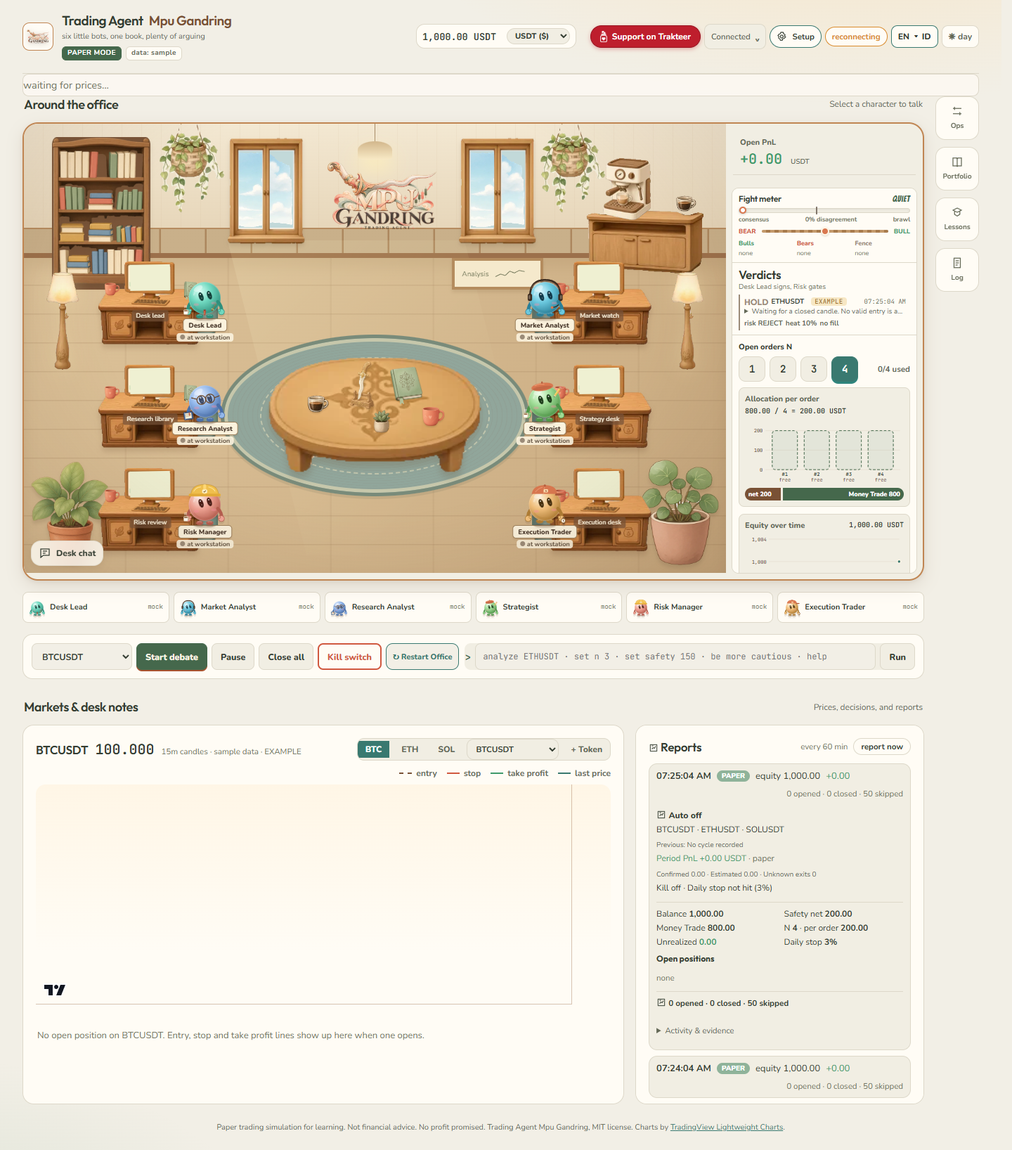
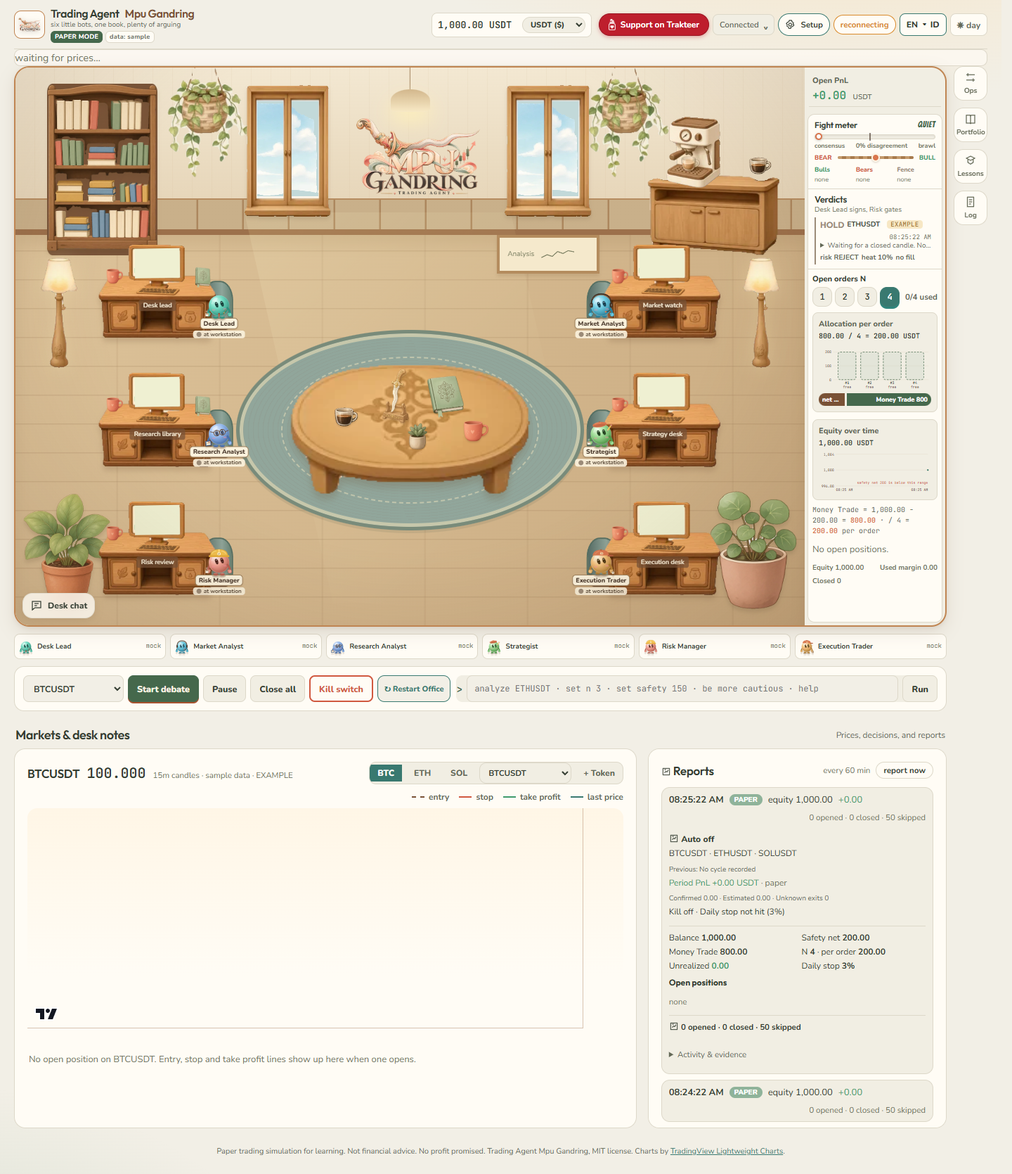
fix: compact office chrome and restore room prominence

diff --git a/web/src/styles/dashboard-v2.css b/web/src/styles/dashboard-v2.css
@@ -1,29 +1,29 @@
 /* The office is the focal point; operational surfaces stay quiet and readable. */
 [data-theme='night'] .dashboard .safety-strip .mt,
 [data-theme='night'] .dashboard .safety-strip .sn { color: var(--bg); }
-.app.dashboard { max-width: 1720px; padding: 18px 32px 16px; }
-.dashboard .topbar { padding: 0 0 18px; gap: 20px; border-bottom: 1px solid var(--line); }
-.dashboard .brand-mark { width: 56px; height: 56px; border-width: 1px; border-radius: 16px; background: var(--panel); box-shadow: none; }
-.dashboard .brand { gap: 12px; }
-.dashboard .brand h1 { font-size: 19px; letter-spacing: -.025em; line-height: 1.2; }
+.app.dashboard { max-width: 1720px; padding: 10px 20px 16px; }
+.dashboard .topbar { padding: 0 0 8px; gap: 10px; border-bottom: 1px solid var(--line); }
+.dashboard .brand-mark { width: 36px; height: 36px; border-width: 1px; border-radius: 16px; background: var(--panel); box-shadow: none; }
+.dashboard .brand { gap: 8px; }
+.dashboard .brand h1 { font-size: 16px; letter-spacing: -.025em; line-height: 1.2; }
 .dashboard .brand h1 span { color: var(--wood-dark); }
-.dashboard .brand p { margin-top: 3px; font-size: 11px; line-height: 1.4; }
-.dashboard .brand-meta { margin-top: 6px; gap: 6px; }
-.dashboard .brand-meta .badge { border-radius: 6px; padding: 3px 7px; font-size: 10px; letter-spacing: .035em; }
-.dashboard .topbar-balance-pill { border-color: var(--line); border-radius: 12px; padding: 12px; box-shadow: none; }
+.dashboard .brand p { margin-top: 1px; font-size: 10px; line-height: 1.1; }
+.dashboard .brand-meta { margin-top: 2px; gap: 4px; }
+.dashboard .brand-meta .badge { border-radius: 6px; padding: 2px 5px; font-size: 9px; letter-spacing: .035em; }
+.dashboard .topbar-balance-pill { border-color: var(--line); border-radius: 8px; padding: 6px 8px; box-shadow: none; }
 .dashboard .badges { gap: 7px; }
-.dashboard .badges > button, .dashboard .wallet-menu > button { min-height: 36px; border-radius: 9px; box-shadow: none; }
-.dashboard .ticker { height: 32px; border-width: 1px; border-radius: 9px; box-shadow: none; background: color-mix(in srgb, var(--panel) 70%, transparent); }
+.dashboard .badges > button, .dashboard .wallet-menu > button { min-height: 30px; border-radius: 8px; box-shadow: none; }
+.dashboard .ticker { height: 24px; border-width: 1px; border-radius: 9px; box-shadow: none; background: color-mix(in srgb, var(--panel) 70%, transparent); }
 .dashboard .ticker-track { animation-duration: 75s; }
-.dashboard .layout { grid-template-columns: minmax(0, 1fr) 62px; gap: 16px; margin-top: 0; scroll-margin-top: 20px; }
-.dashboard .stage { gap: 14px; }
+.dashboard .layout { grid-template-columns: minmax(0, 1fr) 48px; gap: 10px; margin-top: 0; scroll-margin-top: 20px; }
+.dashboard .stage { gap: 8px; }
 .dashboard .workspace-section-title { display: flex; flex-wrap: wrap; justify-content: space-between; align-items: center; gap: 6px 20px; padding: 0 2px; }
 .dashboard .workspace-section-title h2 { margin: 0; font-family: var(--font-head); font-size: 18px; font-weight: 600; letter-spacing: -.025em; }
 .dashboard .workspace-section-title > span { font-size: 12px; color: var(--text-dim); }
 .dashboard .side { top: 20px; }
 .dashboard .workspace-tools { position: sticky; top: 20px; right: auto; }
 .dashboard .tool-bubbles { gap: 10px; }
-.dashboard .tool-bubbles button { width: 62px; min-height: 62px; padding: 10px 4px; border-radius: 14px; box-shadow: none; transition: background var(--fast), border-color var(--fast), transform var(--fast); }
+.dashboard .tool-bubbles button { width: 48px; min-height: 48px; padding: 6px 3px; border-radius: 14px; box-shadow: none; transition: background var(--fast), border-color var(--fast), transform var(--fast); }
 .dashboard .tool-bubbles span { font-size: 10px; font-weight: 700; }
 .dashboard .tool-bubbles button:hover { transform: translateY(-2px); border-color: var(--sage-deep); background: var(--panel-2); }
 .dashboard .tool-bubbles button.is-active { background: var(--sage-deep); border-color: var(--sage-deep); color: var(--cream); }
@@ -56,8 +56,8 @@
 [data-theme='night'] .dashboard .badge.paper { background: var(--sage-deep); color: var(--bg); }
 
 @media (max-width: 1200px) {
-  .app.dashboard { padding: 16px 22px; }
-  .dashboard .topbar { gap: 12px; grid-template-columns: minmax(240px, 1fr) auto; }
+  .app.dashboard { padding: 10px 16px; }
+  .dashboard .topbar { gap: 6px; grid-template-columns: minmax(240px, 1fr) auto; }
   .dashboard .topbar-center { grid-column: 2; grid-row: 1; }
   .dashboard .topbar > .badges { grid-column: 1 / -1; justify-content: flex-start; }
 }
@@ -69,7 +69,7 @@
   .dashboard .topbar { grid-template-columns: minmax(0, 1fr); gap: 12px; padding-bottom: 14px; }
   .dashboard .topbar-center { grid-column: 1; grid-row: auto; }
   .dashboard .topbar-balance-pill { grid-template-columns: minmax(0, 1fr) auto; }
-  .dashboard .brand h1 { font-size: 19px; }
+  .dashboard .brand h1 { font-size: 16px; }
   .dashboard .badges { justify-content: flex-start; }
   .dashboard .badges > button, .dashboard .wallet-menu > button { min-height: 44px; }
   .dashboard .layout { grid-template-columns: minmax(0, 1fr); grid-template-areas: 'stage' 'side'; gap: 0; }

diff --git a/web/src/styles/office-v2.css b/web/src/styles/office-v2.css
@@ -1,6 +1,6 @@
 .office-v2.office .office-world { background: #cfb18a; aspect-ratio: 1000 / 640; max-height: none; min-height: 390px; }
-.office-v2.office { container-type: inline-size; grid-template-columns: minmax(0, 1fr) 280px; grid-template-rows: auto minmax(0, 1fr); }
-.office-v2 .office-hud { align-self: stretch; align-content: start; min-height: 0; max-height: calc(max(390px, (100cqw - 280px) * .64) - 90px); overflow-y: auto; overscroll-behavior: contain; scrollbar-width: thin; scrollbar-color: var(--sage-deep) var(--panel); }
+.office-v2.office { container-type: inline-size; grid-template-columns: minmax(0, 1fr) 200px; grid-template-rows: auto minmax(0, 1fr); }
+.office-v2 .office-hud { align-self: stretch; align-content: start; min-height: 0; max-height: calc(max(390px, (100cqw - 200px) * .64) - 90px); overflow-y: auto; overscroll-behavior: contain; scrollbar-width: thin; scrollbar-color: var(--sage-deep) var(--panel); }
 .office-v2 .office-orders { min-width: 0; padding: 9px; border-top: 1px solid var(--line); }
 .office-orders .n-picker { flex-wrap: wrap; margin: 0 0 8px; gap: 6px; }
 .office-orders .n-picker small { flex: 1 0 100%; color: var(--text); }
@@ -97,9 +97,19 @@
 
 /* Keep the complete room and agent row visible without narrowing the workspace. */
 @media (min-width: 769px) and (min-height: 600px) {
-  .office-v2.office { height: min(calc((100cqw - 280px) * .64 + 4px), var(--office-fit-height, calc(100dvh - 240px))); }
+  .office-v2.office { height: min(calc((100cqw - 200px) * .64 + 4px), var(--office-fit-height, calc(100dvh - 240px))); }
   .office-v2.office .office-world { height: 100%; min-height: 0; aspect-ratio: auto; container-type: size; }
   .office-v2 .office-hud { max-height: none; }
-  .office-v2 .agent .bot { width: clamp(32px, 10cqh, 62px); height: auto; }
-  .dashboard .desk-team .roster-item { flex: 1 1 0; }
+  .office-v2 .agent .bot { width: clamp(28px, 6cqh, 40px); height: auto; }
+  .office-v2 .agent .nametag strong { font-size: 9px; padding: 1px 4px; }
+  .office-v2 .agent .nametag .status { font-size: 8px; }
+  .office-v2 .office-pnl { margin: 6px; padding: 5px; }
+  .office-v2 .office-pnl strong { font-size: 16px; }
+  .office-v2 .office-hud { margin: 4px; }
+  .office-v2 .office-orders { padding: 6px; }
+  .office-v2 .office-orders .n-picker { gap: 4px; font-size: 10px; }
+  .office-v2 .office-orders .n-picker button { width: 28px; height: 28px; min-height: 28px; padding: 2px; font-size: 12px; }
+  .office-v2 .office-hud .verdicts-compact h2 { font-size: 13px; }
+  .dashboard .desk-team .roster-item { flex: 1 1 0; height: 36px; min-height: 36px; padding: 4px 6px; grid-template-columns: 20px minmax(0, 1fr) auto; font-size: 10px; }
+  .dashboard .desk-team .roster-item .bot { width: 20px; height: 24px; }
 }

diff --git a/scripts/verify-office-ui.ts b/scripts/verify-office-ui.ts
@@ -65,6 +65,7 @@ try {
   assert.equal(await page.locator('.side .verdicts').count(), 0);
   assert.equal(await page.locator('.office-hud .verdicts').count(), 1);
   assert.equal(await page.locator('.workspace-heading, .desk-overview').count(), 0);
+  assert.equal(await page.getByRole('heading', { name: 'Around the office', exact: true }).count(), 0);
   assert.equal(await page.locator('.office-hud .office-orders .n-picker').count(), 1);
   assert.equal(await page.locator('.portfolio .n-picker').count(), 0);
   assert.equal(await page.locator('.studio-sign img[src="/mpu-gandring-logo.webp"]').count(), 1);
@@ -125,6 +126,9 @@ try {
     assert(Math.abs(geometry.office.width - geometry.stage.width) < 1, 'Office keeps the full stage width');
     assert(geometry.office.top >= 0 && geometry.roster.bottom <= viewport.height, 'Complete office and agent row fit the viewport');
     assert(await page.locator('.roster').evaluate((roster) => roster.scrollWidth <= roster.clientWidth), 'All six desktop agent buttons fit the row');
+    assert(geometry.office.height >= viewport.height * .6, 'Room must retain most of the viewport height');
+    assert(await page.locator('.office-hud').evaluate((hud) => hud.getBoundingClientRect().width <= 200), 'Map indicators remain compact');
+    assert(await page.locator('.office-world .agent .bot').evaluateAll((bots) => bots.every((bot) => bot.getBoundingClientRect().width <= 40)), 'Scene agents stay small');
     await page.screenshot({ path: path.join(output, `office-fit-${viewport.width}.png`) });
   }
   await page.setViewportSize({ width: 1440, height: 1100 });

diff --git a/tests/i18n.test.ts b/tests/i18n.test.ts
@@ -43,22 +43,22 @@ describe('Dual language i18n parity and updater adapter', () => {
   });
 
   it('compares dotted version strings and checks update status at current release version', async () => {
-    expect(APP_VERSION).toBe('0.0.0.3.10');
+    expect(APP_VERSION).toBe('0.0.0.3.11');
     expect(compareVersions('0.0.0.2.6', '0.0.0.2.6')).toBe(0);
     expect(compareVersions('0.0.0.2.6', '0.0.0.2.5')).toBe(1);
     expect(compareVersions('0.0.0.3.3', '0.0.0.2.6')).toBe(1);
     expect(compareVersions('0.0.0.1.9', '0.0.0.2.6')).toBe(-1);
 
     const fakeNewerFetch = async () =>
-      new Response(JSON.stringify({ appVersion: '0.0.0.3.11', changelog: ['New feature'] }), { status: 200 });
+      new Response(JSON.stringify({ appVersion: '0.0.0.3.12', changelog: ['New feature'] }), { status: 200 });
     const st = await checkUpdate(fakeNewerFetch as unknown as typeof fetch);
     expect(st.ok).toBe(true);
-    expect(st.currentVersion).toBe('0.0.0.3.10');
-    expect(st.latestVersion).toBe('0.0.0.3.11');
+    expect(st.currentVersion).toBe('0.0.0.3.11');
+    expect(st.latestVersion).toBe('0.0.0.3.12');
     expect(st.updateAvailable).toBe(true);
 
     const applied = applyUpdate(process.cwd(), () => ({ status: 0, stdout: 'Already up to date.\\n', stderr: '' }));
     expect(applied.ok).toBe(true);
-    expect(applied.currentVersion).toBe('0.0.0.3.10');
+    expect(applied.currentVersion).toBe('0.0.0.3.11');
   });
 });

diff --git a/web/src/App.tsx b/web/src/App.tsx
@@ -133,7 +133,6 @@ function AppInner() {
       <TickerStrip state={state} />
       <main className="layout" id="office-workspace" tabIndex={-1}>
         <section className="stage">
-          <div className="workspace-section-title"><h2>{id ? 'Di kantor' : 'Around the office'}</h2><span>{id ? 'Pilih karakter untuk berbicara' : 'Select a character to talk'}</span></div>
           <Office sceneEvents={sceneEvents} state={state} speech={speech} fights={fights} reactions={reactions} disagreement={dis} selected={selected} spark={spark} onSelect={setSelected}>
             <FightMeter state={state} meter={meter} fighting={fights.length > 0} />
             <Verdicts state={state} compact />

diff --git a/server/updater.ts b/server/updater.ts
@@ -2,7 +2,7 @@ import { spawnSync } from 'node:child_process';
 import { readFileSync } from 'node:fs';
 import path from 'node:path';
 
-export const APP_VERSION = '0.0.0.3.10';
+export const APP_VERSION = '0.0.0.3.11';
 export const REPO_RAW_PKG_URL = 'https://raw.githubusercontent.com/aabrur/trading-agent-mpu-gandring/main/package.json';
 export const REPO_URL = 'https://github.com/aabrur/trading-agent-mpu-gandring';
 

diff --git a/README.md b/README.md
@@ -14,13 +14,13 @@ You watch all of it live in a little virtual office in your browser, and you can
 
 Screenshots use isolated PAPER/mock fixtures and simulated data. They demonstrate the interface, not exchange execution or trading results.
 
-## Illustrated office (v0.0.0.3.10)
+## Illustrated office (v0.0.0.3.11)
 
 The office uses supplied wood furniture, a shared carved discussion table, a stocked library, sky windows, hanging plants, lamps and a coffee corner. Six animated characters retain their own workstation, role accessories, activity, debate and chat controls. Day and night themes extend across the room, map panels, agent roster, markets and reports.
 
 The office opens directly below the ticker, without a workspace hero or account-summary section. The six-agent roster stays in one compact, equal-height row, with horizontal scrolling on narrow screens. Open-order controls, allocation, equity history and positions sit in the map rail alongside Open PnL, the fight meter and verdicts. The rail scrolls independently on desktop. Portfolio retains balance, safety-net and venue-account settings.
 
-On desktop viewports at least 600px tall, the complete office and all six agent buttons fit within the viewport while preserving workspace width. The HUD scrolls within the office. The discussion table is centered on the usable floor, with six workstations aligned in two balanced columns. Four bookshelf levels use the supplied assembled book groups, and tabletop cups, book, plant and keris each have separate space. The wall displays only the project logo. An espresso machine sits on the coffee counter, and the discussion table carries coffee, a book, a plant and the supplied ornate keris (`026_curved-blade_ornate-dagger`) mounted upright in its matching wooden display stand. Tool panels freeze background-page scrolling while the pointer is inside, and release it on pointer exit or close. Map PnL shows the label and USDT value without mode/source text; provenance remains accessible in its description. Existing trading commands and guards keep their behavior.
+On desktop viewports at least 600px tall, the complete office and all six agent buttons fit within the viewport while preserving workspace width. The compact 200px HUD scrolls within the office. The header, scene characters and agent row stay small so the room retains most of the screen; the office heading has been removed. The discussion table is centered on the usable floor, with six workstations aligned in two balanced columns. Four bookshelf levels use the supplied assembled book groups, and tabletop cups, book, plant and keris each have separate space. The wall displays only the project logo. An espresso machine sits on the coffee counter, and the discussion table carries coffee, a book, a plant and the supplied ornate keris (`026_curved-blade_ornate-dagger`) mounted upright in its matching wooden display stand. Tool panels freeze background-page scrolling while the pointer is inside, and release it on pointer exit or close. Map PnL shows the label and USDT value without mode/source text; provenance remains accessible in its description. Existing trading commands and guards keep their behavior.
 
 Runtime artwork lives in `web/public/office-assets/`: 28 optimized WebP images, about 355 KiB total, with original filenames and archive provenance in `manifest.json`. The supplied `web/public/mpu-gandring-assets/` authoring library stays local and is ignored by Git. Production builds copy only runtime artwork and the two branding images, so clones do not need the original library. Replaced inline room artwork and furniture CSS have been removed.
 
@@ -80,14 +80,14 @@ No model API keys needed: six Grok Bot agents are the employees and the brains, 
 - **A cozy office with brutal cartoon smoke-cloud fights and spectator reactions.** Wood floors, a woven rug, sky windows, a coffee corner and six round little bots with mitten hands. Each role has its own color and prop: tie, keris pin and journal papers for the Lead, headset for Market, glasses and newspaper for Research, beret and pencil for the Strategist, hard hat for Risk and cap and stopwatch for Execution. When disagreement crosses the threshold, agents dive into a cartoon dust/smoke cloud with flying fists, spinning stars, lightning bolts and impact bursts (`GEBUK!`, `POW!`, `WHAM!`, `BONK!`), while bystander bots react with worried expressions and speech without blocking execution.
 - **Interactive pop-up tutorial on every start.** A 9-step guided onboarding tour launches automatically on startup (and via **Setup > Tutorial** in the top bar), highlighting each section of the desk with a spotlight and directional arrow.
 - **Dual language mode: EN and ID.** Defaults to English (`EN`) and switches instantly to Bahasa Indonesia (`ID`) from the top bar (`EN ▾ ID`), backed by a strictly synchronized 1:1 translation dictionary verified by automated tests.
-- **In-app Version & Lit-Up Update Notification (`v0.0.0.3.10`).** The lit-up version notification badge (`v0.0.0.3.10 · Update ↑`) in the top bar checks GitHub for new releases via `GET /api/update/status` and lets you pull and build the latest version in one click via `POST /api/update/apply`.
+- **In-app Version & Lit-Up Update Notification (`v0.0.0.3.11`).** The lit-up version notification badge (`v0.0.0.3.11 · Update ↑`) in the top bar checks GitHub for new releases via `GET /api/update/status` and lets you pull and build the latest version in one click via `POST /api/update/apply`.
 - **Charts you can read.** A candlestick chart for the selected symbol with a price scale, time labels, the last price and dashed entry, stop and take profit lines for open paper positions. The paper book has an equity curve and allocation bars for Money Trade / N, and every desk monitor shows a sparkline.
 - **Day and night.** A toggle in the top bar. All colors and fonts live in `web/src/styles/tokens.css`.
 - **Live office feed.** Status, speech bubbles and fights stream over WebSocket, next to the fight meter, ticker strip, verdict cards and a desk log.
 - **Talk to the agents.** Click an agent to chat or give commands like `analyze ETHUSDT`, `be more cautious` or `close all`.
 - **Optional Grok Bot bridge.** Send verdicts and commands to a Grok Bot webhook routine from the server. Off by default.
 
-## Compact office controls (v0.0.0.3.10)
+## Compact office controls (v0.0.0.3.11)
 
 - Open **Ops**, **Portfolio**, **Lessons**, or **Log** from the bubble menu at the right. Panels stay closed until selected. Close with the same bubble, the close button, Escape, or a click outside. On phones the menu sits at the bottom-right.
 - **Reports** sits beside the price chart on desktop and below it on narrow screens. Open activity and evidence only when needed.
@@ -139,7 +139,7 @@ Refused everywhere: main wallet private keys, seed phrases, keys that can withdr
 | Interactive onboarding tour | N/A | Launches on every start, or open **Setup > Tutorial** in the top bar |
 | Optional Jev decision sidecar | Setup > Models, `JEV_ENABLED=true` | Shadow does not block. LIVE ASSIST needs Setup authorization. Never places orders |
 | Switch UI language (`EN` default / `ID`) | N/A | **EN ▾ ID** toggle in top bar |
-| Check version (`v0.0.0.3.10`) & one-click update | `git pull --ff-only && npm run build` | Lit-up **v0.0.0.3.10 · Update ↑** button in top bar |
+| Check version (`v0.0.0.3.11`) & one-click update | `git pull --ff-only && npm run build` | Lit-up **v0.0.0.3.11 · Update ↑** button in top bar |
 | Doctor / permission check | `npm run doctor`, `npm run setup -- check-key --network testnet` | Setup > Exchange & Safety **Run doctor** |
 | Switch mode to TESTNET or LIVE | `npm run setup -- --yes --trading-mode testnet` / `... live --confirm-live "I understand LIVE trades real money"` | Setup > Exchange & Safety |
 | What is configured with secrets masked | `npm run setup -- status` | Setup header and status lines |
@@ -415,7 +415,7 @@ server/            Express + WebSocket backend
   exchange/        adapter interface; Bybit implemented; Binance, OKX, Hyperliquid, Aster, dYdX, Paradex, Orderly experimental
   live/            automatic key guard, optional testnet round trip, live executor
   wallet.ts        Connect wallet: DEX agent key + one signed approval + live venue balance + official deposit links
-  updater.ts       in-app version check (v0.0.0.3.10) and one-click git fast-forward updater
+  updater.ts       in-app version check (v0.0.0.3.11) and one-click git fast-forward updater
   auto.ts          full auto scheduler
   reports.ts       periodic reports to files, UI, bridge and Telegram
   learnings.ts     self-improving lessons store and the guard-loosening block
@@ -453,7 +453,7 @@ Proyek ini simulasi trading kertas secara default. Enam agen AI berdebat, kadang
    mpu
    ```
 3. Ketik `mpu` kapan saja di terminal untuk langsung menjalankan desk dan membuka Web UI secara otomatis, atau `mpu setup` untuk langsung membuka menu pengaturan bernavigasi sidebar kiri. Di halaman Setup, Anda bisa mengatur saldo paper, safety net, memilih model untuk setiap agent dari 10 provider yang masing-masing menyediakan 20 model AI sehingga 1 API key bisa dipakai untuk banyak model, atau langsung menghubungkan agent CLI yang sudah terpasang di laptop Anda seperti Codex, Claude Code, Pi, Kimi Code, Kilo, Cline dan Grok Build maupun supervisor eksternal seperti Antigravity dan Grok Bot.
-4. Tanpa API key pun jalan, karena ada provider `mock`. Di navbar bagian atas tersedia dropdown **Connect Wallet** khusus wallet EVM DEX, tombol **Setup**, menu **Setup > Tutorial** untuk panduan pop-up interaktif 9 langkah, tombol **v0.0.0.3.10** untuk cek & klik update versi secara langsung, serta tombol **EN ▾ ID** untuk mengganti bahasa tampilan antara Bahasa Inggris dan Bahasa Indonesia. Tersedia pula 4 preset risiko trading bawaan (Default, Balance, Profit, High Risk High Reward) yang dapat dipilih langsung dari Setup atau dropdown ringkas di atas tombol Cycle now pada Desk Ops Auto Trade.
+4. Tanpa API key pun jalan, karena ada provider `mock`. Di navbar bagian atas tersedia dropdown **Connect Wallet** khusus wallet EVM DEX, tombol **Setup**, menu **Setup > Tutorial** untuk panduan pop-up interaktif 9 langkah, tombol **v0.0.0.3.11** untuk cek & klik update versi secara langsung, serta tombol **EN ▾ ID** untuk mengganti bahasa tampilan antara Bahasa Inggris dan Bahasa Indonesia. Tersedia pula 4 preset risiko trading bawaan (Default, Balance, Profit, High Risk High Reward) yang dapat dipilih langsung dari Setup atau dropdown ringkas di atas tombol Cycle now pada Desk Ops Auto Trade.
 5. Aturan uang: Money Trade = total saldo dikurangi safety net, lalu dibagi N order dari 1 sampai 4. Contoh saldo 100, safety net 20, N = 4, berarti 20 USDT per order. Safety net tidak pernah disentuh dan setiap order wajib pakai stop loss. Anda juga bisa memilih token perp apa saja lewat dropdown Watchlist, Popular Perps, atau `+ Custom token...` di Price Chart, Command Bar, dan Desk Ops.
 6. Mau trading di exchange? Pakai akun dan key **milik Anda sendiri**. Urutannya PAPER, lalu TESTNET, LIVE paling akhir. Jalankan `mpu setup` atau `npm run setup` atau klik tombol **Setup** di kanan atas office: pilih venue dan mode, ikuti link langsung satu per satu untuk daftar, dana tes, halaman pembuatan key dan izin yang dicentang, lalu ketik key di input tersembunyi. Key masuk ke `.env` dengan chmod 600, tidak pernah ke chat. Izin: trade saja, withdraw dan transfer MATI. Private key dompet utama dan seed phrase selalu ditolak. Untuk DEX (`Hyperliquid`, `Aster`, `dYdX v4`, `Paradex`, `Orderly`) bisa melalui tombol **Connect Wallet** yang juga menampilkan saldo USDT secara live serta tombol **Halaman deposit resmi** untuk setiap DEX/CEX. Setelah itu jalankan `npm run doctor`. Panduan per venue: [docs/setup/](docs/setup/README.md). Untuk LIVE harus mengetik kalimat konfirmasi.
 7. Pakai agen AI sendiri? Grok Bot: [grokbot/INSTALL.md](grokbot/INSTALL.md), jalan di komputer Grok Bot, bukan laptop kamu. Muse Code: [docs/muse-code.md](docs/muse-code.md) dan [MUSE.md](MUSE.md). Claude Code, Codex, Antigravity, Cursor atau Copilot: [AGENTS.md](AGENTS.md) dan [docs/local-agents.md](docs/local-agents.md).

diff --git a/docs/qa/2026-10-21-office-redesign.md b/docs/qa/2026-10-21-office-redesign.md
@@ -59,3 +59,10 @@ Verification: 14 focused scene/updater tests passed, typecheck passed, productio
 The full desktop room and all six roster buttons fit within one viewport at 1920x936, 1366x768 and 1024x600. The workspace retains its width; room height reserves the header, ticker, section title, agent row and spacing. The HUD scrolls inside the available office height, and character size follows room height. Mobile and very short landscape screens retain their existing flow.
 
 The offline browser verifier passed for these desktop sizes and its existing mobile, landscape, day/night and reduced-motion checks before release preparation. Typecheck and production build passed after the version update. Full suite rerun: 369 passed, 15 failed, 384 total in 44 files. The seven failing files are the same as documented above. The release also includes the previously committed saved-trading-settings and confirmed-exit-reversal changes in `6d7af4a`; this release preparation changes only version metadata, updater fixtures and documentation. No actual exchange trading was tested. CI is not claimed green.
+
+
+## Compact chrome and larger room: v0.0.0.3.11
+
+Removed the office heading row. Reduced header padding, brand and balance sizing, ticker height and stage gaps. Narrowed the desktop map rail from 280px to 200px, compacted its controls, and reduced desktop scene characters to at most 40px and roster rows to 36px. The existing viewport fit remains in place, with more space allocated to the room.
+
+Verification: 14 focused scene/updater tests, typecheck, build and isolated browser checks passed. At 1920x936, 1366x768 and 1024x600 the checks confirm full workspace width, complete room and six roster buttons within the viewport, room height at least 60% of viewport height, indicator width at most 200px and scene character width at most 40px. Existing mobile, landscape, day/night and reduced-motion checks passed. Desktop screenshots were inspected and README screenshots refreshed. The full-suite result from v0.0.0.3.10 remains 369 passed and 15 failed; it was not rerun for this presentation-only change.
